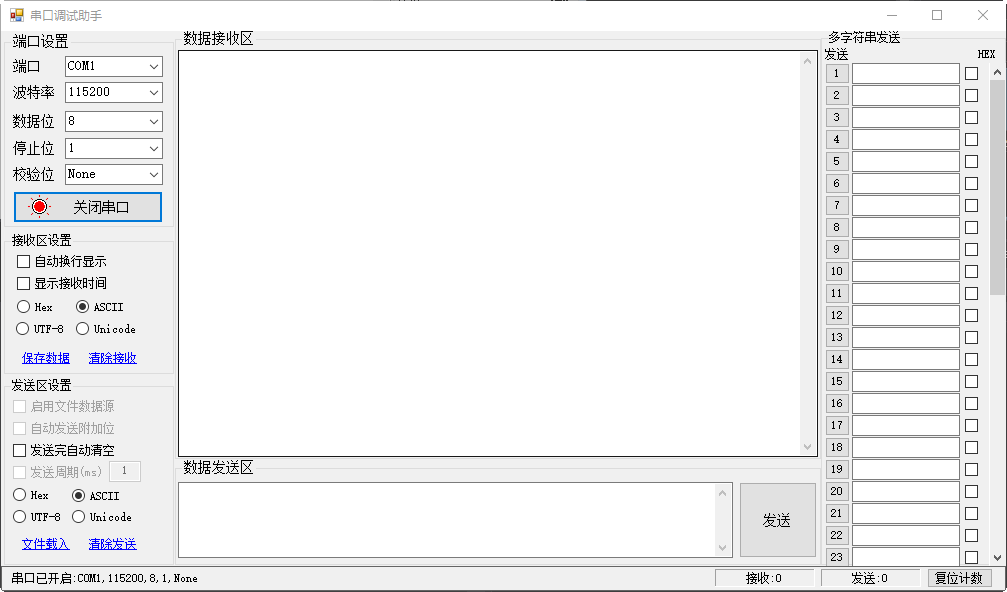
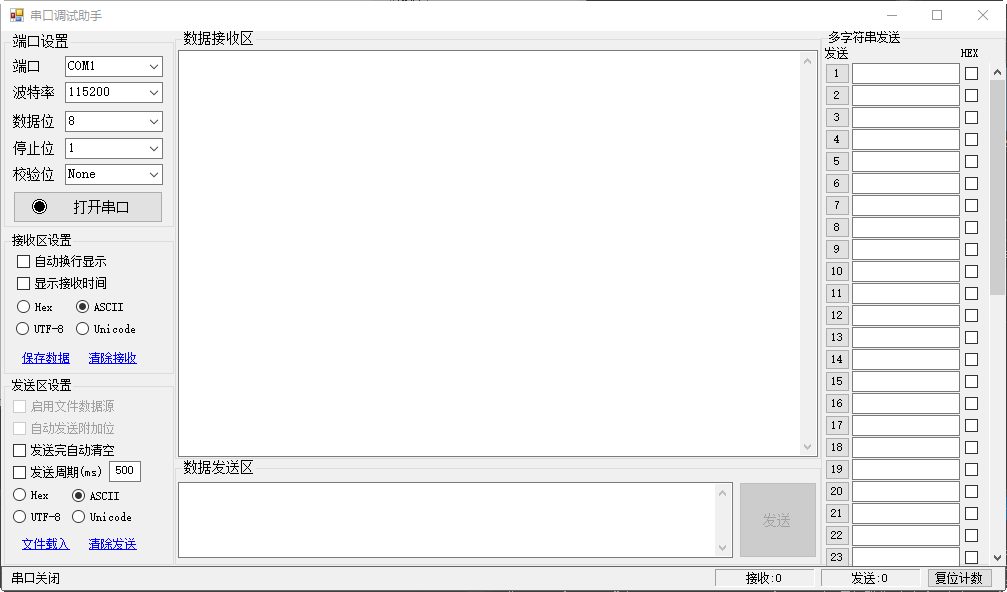
新增:自动定时发送功能 新增:多字符串发送勾选框悬浮提示功能

diff --git a/ZUART/ZUART.Designer.cs b/ZUART/ZUART.Designer.cs
@@ -31,7 +31,7 @@
             this.components = new System.ComponentModel.Container();
             this.panel_Setting = new System.Windows.Forms.Panel();
             this.groupboxSendSetting = new System.Windows.Forms.GroupBox();
-            this.textBox1 = new System.Windows.Forms.TextBox();
+            this.txtAutoSendms = new System.Windows.Forms.TextBox();
             this.chkAutoCleanSend = new System.Windows.Forms.CheckBox();
             this.chkAutoSend = new System.Windows.Forms.CheckBox();
             this.chkfromFileSend = new System.Windows.Forms.CheckBox();
@@ -51,7 +51,7 @@
             this.lkbClearRev = new System.Windows.Forms.LinkLabel();
             this.chkShowTime = new System.Windows.Forms.CheckBox();
             this.chkAutoLine = new System.Windows.Forms.CheckBox();
-            this.groupBox1 = new System.Windows.Forms.GroupBox();
+            this.groupBoxComSetting = new System.Windows.Forms.GroupBox();
             this.cbbParity = new System.Windows.Forms.ComboBox();
             this.cbbStopBits = new System.Windows.Forms.ComboBox();
             this.btnOpen = new System.Windows.Forms.Button();
@@ -84,10 +84,11 @@
             this.ListSend_Hex0 = new System.Windows.Forms.CheckBox();
             this.label7 = new System.Windows.Forms.Label();
             this.label6 = new System.Windows.Forms.Label();
+            this.toolTip1 = new System.Windows.Forms.ToolTip(this.components);
             this.panel_Setting.SuspendLayout();
             this.groupboxSendSetting.SuspendLayout();
             this.groupboxRecSetting.SuspendLayout();
-            this.groupBox1.SuspendLayout();
+            this.groupBoxComSetting.SuspendLayout();
             this.panel_Rec.SuspendLayout();
             this.groupBox2.SuspendLayout();
             this.panel_Send.SuspendLayout();
@@ -102,7 +103,7 @@
             this.panel_Setting.BackColor = System.Drawing.SystemColors.Control;
             this.panel_Setting.Controls.Add(this.groupboxSendSetting);
             this.panel_Setting.Controls.Add(this.groupboxRecSetting);
-            this.panel_Setting.Controls.Add(this.groupBox1);
+            this.panel_Setting.Controls.Add(this.groupBoxComSetting);
             this.panel_Setting.Dock = System.Windows.Forms.DockStyle.Left;
             this.panel_Setting.Location = new System.Drawing.Point(0, 0);
             this.panel_Setting.Name = "panel_Setting";
@@ -112,7 +113,7 @@
             // groupboxSendSetting
             // 
             this.groupboxSendSetting.Anchor = ((System.Windows.Forms.AnchorStyles)((System.Windows.Forms.AnchorStyles.Bottom | System.Windows.Forms.AnchorStyles.Left)));
-            this.groupboxSendSetting.Controls.Add(this.textBox1);
+            this.groupboxSendSetting.Controls.Add(this.txtAutoSendms);
             this.groupboxSendSetting.Controls.Add(this.chkAutoCleanSend);
             this.groupboxSendSetting.Controls.Add(this.chkAutoSend);
             this.groupboxSendSetting.Controls.Add(this.chkfromFileSend);
@@ -130,16 +131,18 @@
             this.groupboxSendSetting.TabStop = false;
             this.groupboxSendSetting.Text = "发送区设置";
             // 
-            // textBox1
+            // txtAutoSendms
             // 
-            this.textBox1.Enabled = false;
-            this.textBox1.Location = new System.Drawing.Point(105, 82);
-            this.textBox1.MaxLength = 5;
-            this.textBox1.Name = "textBox1";
-            this.textBox1.Size = new System.Drawing.Size(32, 21);
-            this.textBox1.TabIndex = 5;
-            this.textBox1.Text = "1";
-            this.textBox1.TextAlign = System.Windows.Forms.HorizontalAlignment.Center;
+            this.txtAutoSendms.ImeMode = System.Windows.Forms.ImeMode.On;
+            this.txtAutoSendms.Location = new System.Drawing.Point(105, 82);
+            this.txtAutoSendms.MaxLength = 5;
+            this.txtAutoSendms.Name = "txtAutoSendms";
+            this.txtAutoSendms.Size = new System.Drawing.Size(32, 21);
+            this.txtAutoSendms.TabIndex = 5;
+            this.txtAutoSendms.Text = "500";
+            this.txtAutoSendms.TextAlign = System.Windows.Forms.HorizontalAlignment.Center;
+            this.toolTip1.SetToolTip(this.txtAutoSendms, "建议20-60000范围内");
+            this.txtAutoSendms.KeyPress += new System.Windows.Forms.KeyPressEventHandler(this.txtAutoSendms_KeyPress);
             // 
             // chkAutoCleanSend
             // 
@@ -154,7 +157,6 @@
             // chkAutoSend
             // 
             this.chkAutoSend.AutoSize = true;
-            this.chkAutoSend.Enabled = false;
             this.chkAutoSend.Location = new System.Drawing.Point(9, 86);
             this.chkAutoSend.Name = "chkAutoSend";
             this.chkAutoSend.Size = new System.Drawing.Size(96, 16);
@@ -353,26 +355,26 @@
             this.chkAutoLine.Text = "自动换行显示";
             this.chkAutoLine.UseVisualStyleBackColor = true;
             // 
-            // groupBox1
+            // groupBoxComSetting
             // 
-            this.groupBox1.Controls.Add(this.cbbParity);
-            this.groupBox1.Controls.Add(this.cbbStopBits);
-            this.groupBox1.Controls.Add(this.btnOpen);
-            this.groupBox1.Controls.Add(this.cbbDataBits);
-            this.groupBox1.Controls.Add(this.cbbBaudRate);
-            this.groupBox1.Controls.Add(this.cbbComList);
-            this.groupBox1.Controls.Add(this.label2);
-            this.groupBox1.Controls.Add(this.label5);
-            this.groupBox1.Controls.Add(this.label1);
-            this.groupBox1.Controls.Add(this.label4);
-            this.groupBox1.Controls.Add(this.label3);
-            this.groupBox1.Font = new System.Drawing.Font("宋体", 10F);
-            this.groupBox1.Location = new System.Drawing.Point(3, 3);
-            this.groupBox1.Name = "groupBox1";
-            this.groupBox1.Size = new System.Drawing.Size(170, 194);
-            this.groupBox1.TabIndex = 1;
-            this.groupBox1.TabStop = false;
-            this.groupBox1.Text = "端口设置";
+            this.groupBoxComSetting.Controls.Add(this.cbbParity);
+            this.groupBoxComSetting.Controls.Add(this.cbbStopBits);
+            this.groupBoxComSetting.Controls.Add(this.btnOpen);
+            this.groupBoxComSetting.Controls.Add(this.cbbDataBits);
+            this.groupBoxComSetting.Controls.Add(this.cbbBaudRate);
+            this.groupBoxComSetting.Controls.Add(this.cbbComList);
+            this.groupBoxComSetting.Controls.Add(this.label2);
+            this.groupBoxComSetting.Controls.Add(this.label5);
+            this.groupBoxComSetting.Controls.Add(this.label1);
+            this.groupBoxComSetting.Controls.Add(this.label4);
+            this.groupBoxComSetting.Controls.Add(this.label3);
+            this.groupBoxComSetting.Font = new System.Drawing.Font("宋体", 10F);
+            this.groupBoxComSetting.Location = new System.Drawing.Point(3, 3);
+            this.groupBoxComSetting.Name = "groupBoxComSetting";
+            this.groupBoxComSetting.Size = new System.Drawing.Size(170, 194);
+            this.groupBoxComSetting.TabIndex = 1;
+            this.groupBoxComSetting.TabStop = false;
+            this.groupBoxComSetting.Text = "端口设置";
             // 
             // cbbParity
             // 
@@ -663,6 +665,7 @@
             // timerAutoSend
             // 
             this.timerAutoSend.Interval = 1;
+            this.timerAutoSend.Tick += new System.EventHandler(this.timerAutoSend_Tick);
             // 
             // groupBox6
             // 
@@ -723,13 +726,14 @@
             this.ListSend_Hex0.Size = new System.Drawing.Size(15, 14);
             this.ListSend_Hex0.TabIndex = 3;
             this.ListSend_Hex0.TabStop = false;
+            this.toolTip1.SetToolTip(this.ListSend_Hex0, "选择:以Hex发送\r\n不选:以文本发送");
             this.ListSend_Hex0.UseVisualStyleBackColor = true;
             // 
             // label7
             // 
             this.label7.Anchor = ((System.Windows.Forms.AnchorStyles)((System.Windows.Forms.AnchorStyles.Top | System.Windows.Forms.AnchorStyles.Right)));
             this.label7.AutoSize = true;
-            this.label7.Location = new System.Drawing.Point(155, 17);
+            this.label7.Location = new System.Drawing.Point(138, 16);
             this.label7.Name = "label7";
             this.label7.Size = new System.Drawing.Size(23, 12);
             this.label7.TabIndex = 4;
@@ -738,7 +742,7 @@
             // label6
             // 
             this.label6.AutoSize = true;
-            this.label6.Location = new System.Drawing.Point(2, 17);
+            this.label6.Location = new System.Drawing.Point(2, 16);
             this.label6.Name = "label6";
             this.label6.Size = new System.Drawing.Size(29, 12);
             this.label6.TabIndex = 3;
@@ -762,8 +766,8 @@
             this.groupboxSendSetting.PerformLayout();
             this.groupboxRecSetting.ResumeLayout(false);
             this.groupboxRecSetting.PerformLayout();
-            this.groupBox1.ResumeLayout(false);
-            this.groupBox1.PerformLayout();
+            this.groupBoxComSetting.ResumeLayout(false);
+            this.groupBoxComSetting.PerformLayout();
             this.panel_Rec.ResumeLayout(false);
             this.groupBox2.ResumeLayout(false);
             this.groupBox2.PerformLayout();
@@ -785,7 +789,7 @@
         private System.Windows.Forms.Panel panel_Setting;
         private System.Windows.Forms.Panel panel_Rec;
         private System.Windows.Forms.Panel panel_Send;
-        private System.Windows.Forms.GroupBox groupBox1;
+        private System.Windows.Forms.GroupBox groupBoxComSetting;
         private System.Windows.Forms.ComboBox cbbParity;
         private System.Windows.Forms.ComboBox cbbStopBits;
         private System.Windows.Forms.ComboBox cbbDataBits;
@@ -828,7 +832,7 @@
         private System.Windows.Forms.CheckBox chkAutoSend;
         private System.Windows.Forms.CheckBox chkfromFileSend;
         private System.Windows.Forms.CheckBox chkAutoAddSend;
-        private System.Windows.Forms.TextBox textBox1;
+        private System.Windows.Forms.TextBox txtAutoSendms;
         private System.Windows.Forms.Timer timerAutoSend;
         private System.Windows.Forms.GroupBox groupBox6;
         private System.Windows.Forms.Panel panel_ListSend;
@@ -837,6 +841,7 @@
         private System.Windows.Forms.CheckBox ListSend_Hex0;
         private System.Windows.Forms.Label label7;
         private System.Windows.Forms.Label label6;
+        private System.Windows.Forms.ToolTip toolTip1;
     }
 }
 

diff --git a/ZUART/ZUART.cs b/ZUART/ZUART.cs
@@ -30,7 +30,7 @@ namespace ZUART
         {
             btnSend.Enabled = false;
             cbbComList.Items.AddRange(SerialPort.GetPortNames());
-            
+
             if (cbbComList.Items.Count > 0)
             {
                 cbbComList.SelectedIndex = 0;
@@ -79,6 +79,8 @@ namespace ZUART
                 ListSendCheckBox[i].Anchor = ListSendCheckBox[0].Anchor;
                 panel_ListSend.Controls.Add(ListSendCheckBox[i]);
                 #endregion
+
+                toolTip1.SetToolTip(ListSendCheckBox[i], toolTip1.GetToolTip(ListSendCheckBox[0]));
             }
 
         }
@@ -165,7 +167,7 @@ namespace ZUART
             {
                 ComDevice.Close();
             }
-        } 
+        }
         #endregion
 
         #region 发送数据
@@ -195,7 +197,7 @@ namespace ZUART
         #region 多字符串发送
         private void ListSendButton_Click(object sender, EventArgs e)
         {
-           
+
             int item = ((Button)sender).TabIndex;
             SendStr(ListSendTextBox[item].Text, ListSendCheckBox[item].Checked);
         }
@@ -206,7 +208,27 @@ namespace ZUART
         {
             if (chkAutoSend.Checked)
             {
-
+                if (txtSendData.Text.Length < 1)
+                {
+                    MessageBox.Show("发送数据为空!", "错误");
+                    return;
+                }
+                if (txtAutoSendms.Text.Length < 1) txtAutoSendms.Text = "500";
+                timerAutoSend.Interval = Convert.ToInt32(txtAutoSendms.Text);
+                if (timerAutoSend.Enabled)
+                {
+                    timerAutoSend.Enabled = false;
+                    groupBoxComSetting.Enabled = true;
+                    groupboxSendSetting.Enabled = true;
+                    btnSend.Text = "发送";
+                }
+                else
+                {
+                    timerAutoSend.Enabled = true;
+                    groupBoxComSetting.Enabled = false;
+                    groupboxSendSetting.Enabled = false;
+                    btnSend.Text = "停止发送";
+                }
             }
             else
             {
@@ -221,7 +243,7 @@ namespace ZUART
         }
         #endregion
 
-        
+
         #region 选择编码发送字符串
         private bool SendStr(String str)
         {
@@ -272,7 +294,7 @@ namespace ZUART
             }
 
             return false;
-        } 
+        }
         #endregion
 
         #region 字符串转换16进制字节数组
@@ -418,6 +440,24 @@ namespace ZUART
             lblRevCount.Text = "接收:0";
         }
 
-        
+        #region 自动定时发送
+        #region 自动发送定时器函数
+        private void timerAutoSend_Tick(object sender, EventArgs e)
+        {
+            SendStr(txtSendData.Text);
+        }
+        #endregion
+        #region 自动发送间隔时间,只能输入数字
+        private void txtAutoSendms_KeyPress(object sender, KeyPressEventArgs e)
+        {
+            if (e.KeyChar != '\b' && ((e.KeyChar < '0') || (e.KeyChar > '9')))//这是允许输入退格键允许输入0-9数字
+            {
+                e.Handled = true;
+            }
+        }
+        #endregion 
+        #endregion
+
+
     }
 }
